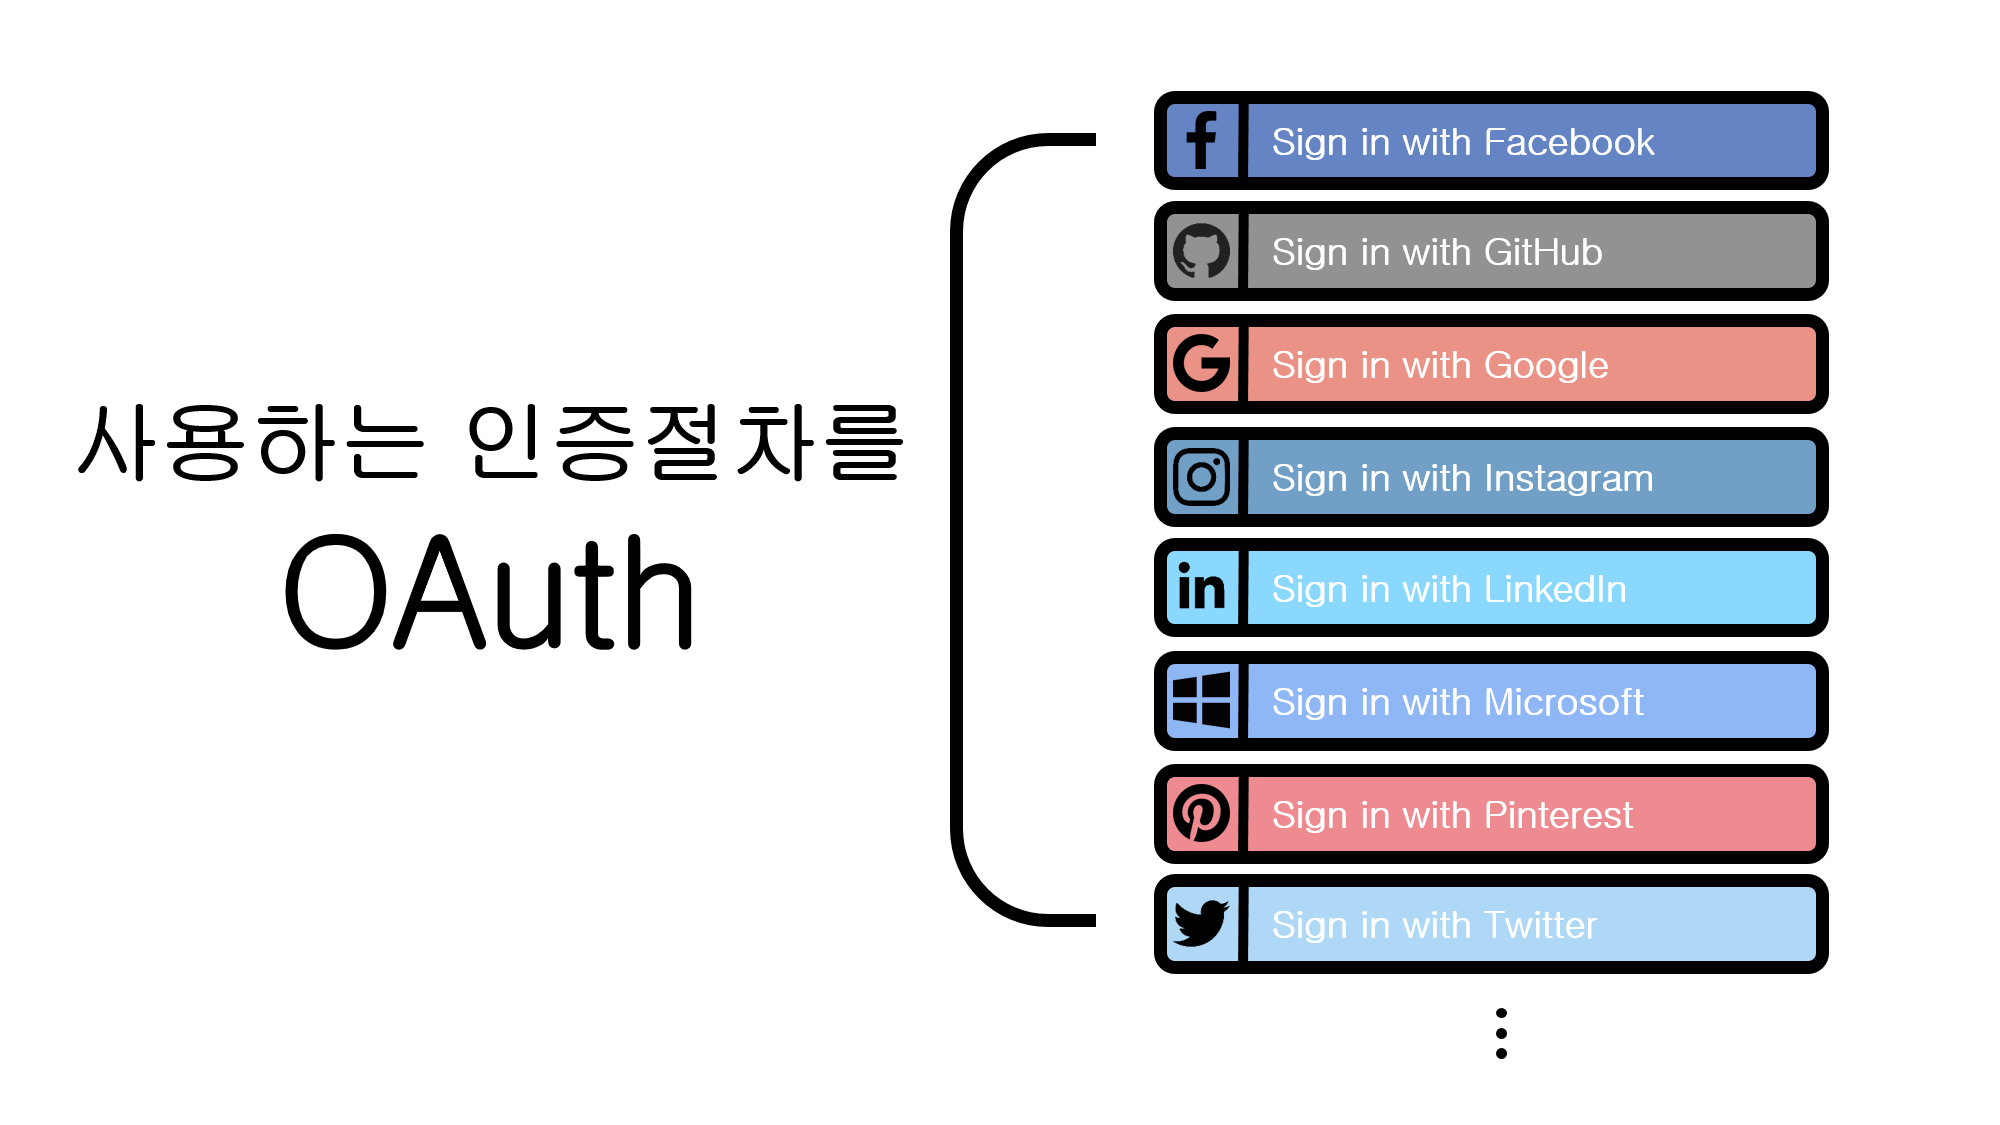
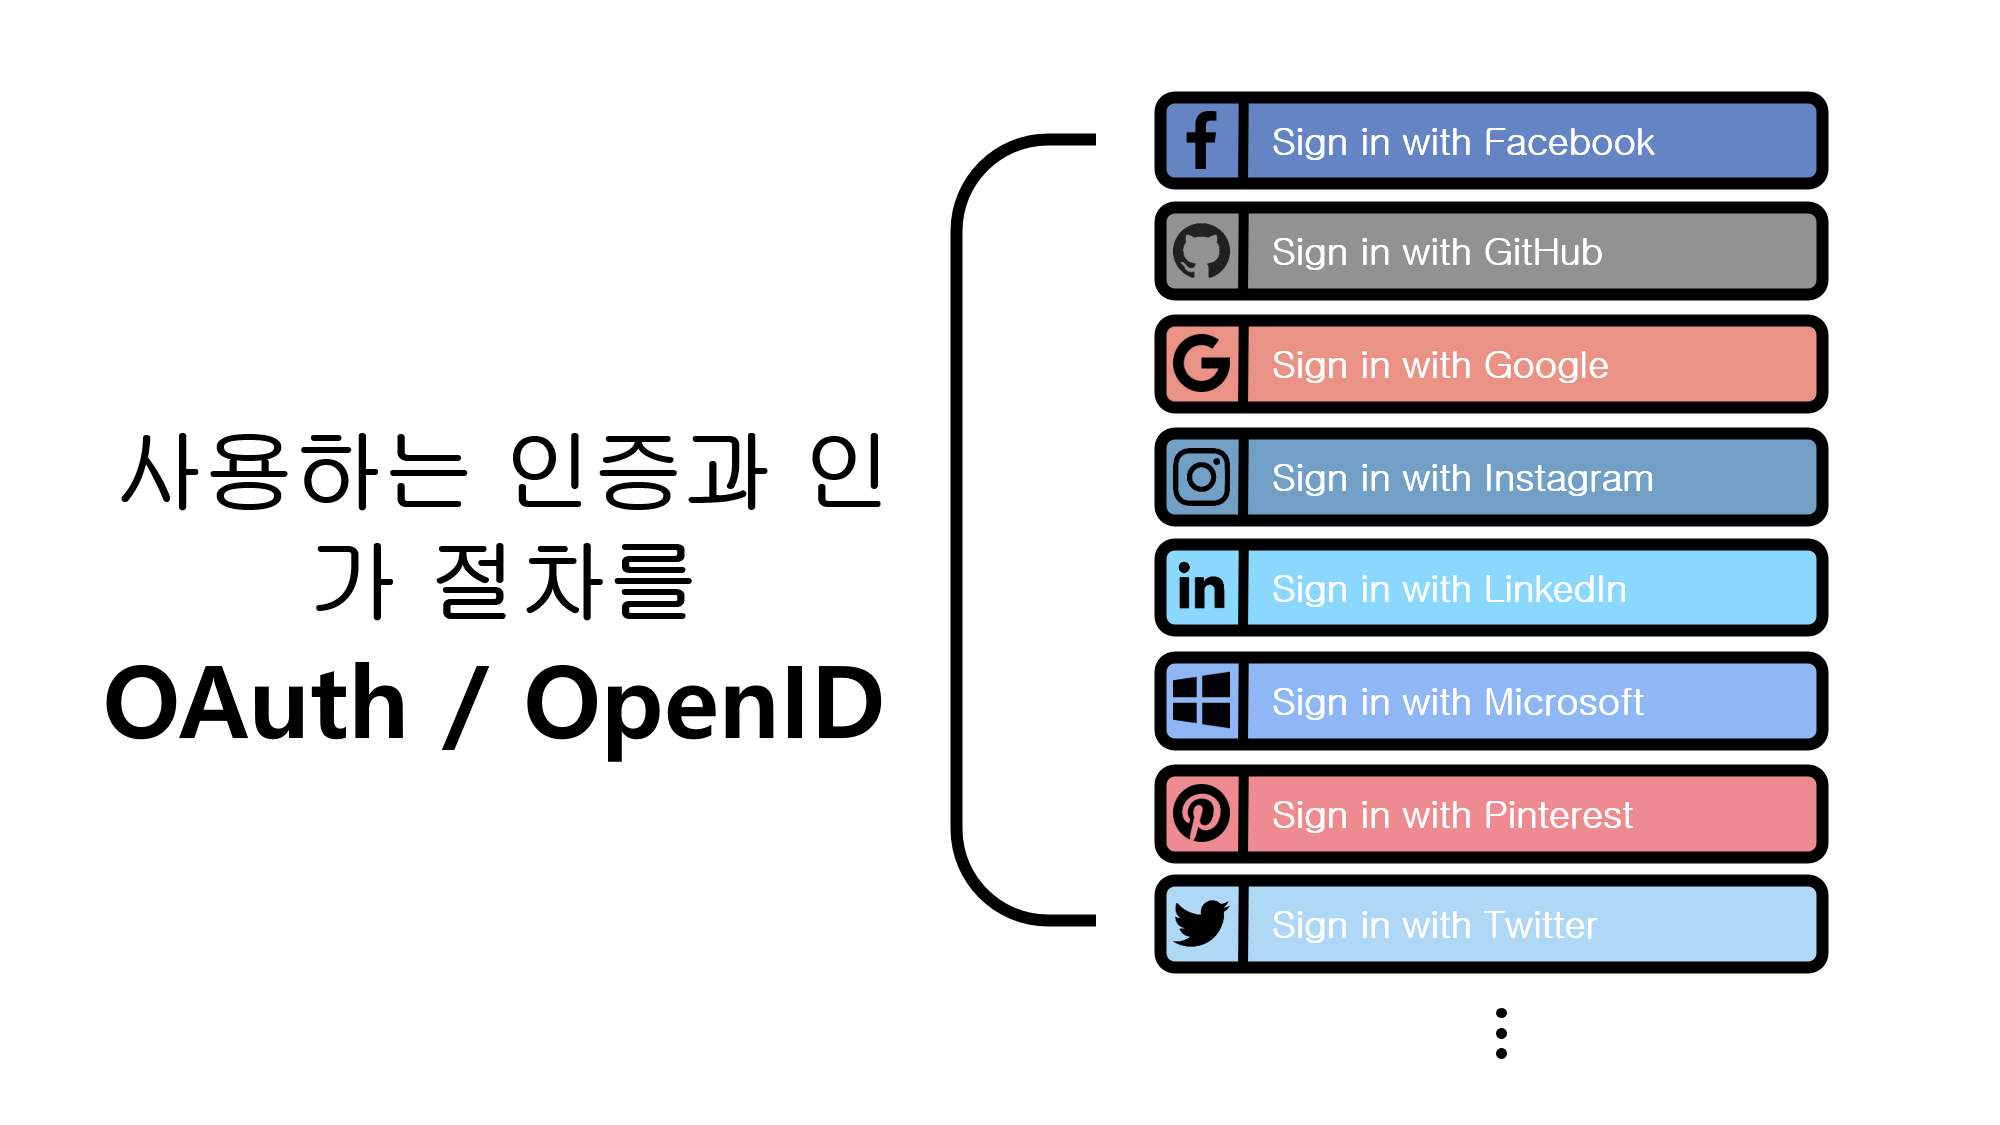
add 2023-01-26 oauth post

Changed region(s): [[0.031, 0.3422, 0.465, 0.6844]]

diff --git a/_posts/development/server/2023-01-26-oauth.md b/_posts/development/server/2023-01-26-oauth.md
@@ -1,11 +1,11 @@
 ---
 layout: post
-title: "[Security] OAuth와 OpenID"
+title: "[Security] OAuth"
 subtitle: "OAuth"
 category: development
-tags: server OAuth
+tags: server Security OAuth 개념 
 image:
-  path: /assets/img/development/server/2023-01-26/oauth_openid.png
+  path: /assets/img/development/server/2023-01-26/oauth.png
 ---
 
 > “해당 포스팅은 **우아한Tech**의 [**[10분 테코톡] 토닉, 후디의 인증과 인가 - 부족사회부터 소셜로그인까지**](https://www.youtube.com/watch?v=BotXDfBPvDA)을 참고하여 포스팅하였습니다. 영상을 제작해주신 **우아한Tech**와 **토닉, 후디**님에게 감사드립니다.”
@@ -21,16 +21,73 @@ image:
 > “다른 웹사이트 상의 자신들의 정보에 대해 <span style="color:#ff8080">**접근 권한을 부여**</span>할 수 있는 **공통적인 수단**이자 **개방형 표준**”
 
 ## 소셜 로그인의 등장
-
 ![social_login_buttons](/assets/img/development/server/2023-01-26/social_login_buttons.png){:.centered width="90%"}
-> “구글, 페이스북, 깃헙 등의 로그인을 사용하는 **인증절차**를 <span style="color:#ff8080">**`OAuth`**</span>라 한다.”
+> “구글, 페이스북, 깃헙 등의 로그인을 사용하는 **인증 및 인가 절차**를 <span style="color:#ff8080">**`OAuth와 OpenID`**</span>라 한다.”
 
 ### 우리는 어떻게 소셜 로그인을 사용한 로그인을 할 수 있을까?
-
 ![what_is_oauth_openid](/assets/img/development/server/2023-01-26/what_is_oauth_openid.png){:.centered width="90%"}
 > “**OAuth**는 <span style="color:#ff8080">**`인가`**</span>에 대한 기술이고, **OpenID**는 <span style="color:#ff8080">**`인증`**</span>에 대한 기술이다.”
 
+- 여기서 근간 기술인 **OAuth**와 **OpenID** 두 가지 기술이 존재 한다.
 
 ### OAuth2.0 이전
+![service](/assets/img/development/server/2023-01-26/service.png){:.centered width="90%"}
 
-![what_is_oauth_openid](/assets/img/development/server/2023-01-26/what_is_oauth_openid.png){:.centered width="90%"}
+#### 발단
+- 디스이즈우닷컴은 서비스를 제공하기 위해서 사용자의 구글 주소록이 필요해서 사용자의 ID/PW를 직접 제공받기로 한다.
+
+![problem](/assets/img/development/server/2023-01-26/problem.png){:.centered width="90%"}
+#### 전개
+1. 사용자가 디스이즈우닷컴에 <span style="color:#ff8080">**`구글 ID/PW를 제공`**</span>해 주면
+2. 그 정보로 디스이즈우닷컴에 구글에 <span style="color:#ff8080">**`로그인`**</span>하게 된다
+3. 구글은 디스이즈우닷컴에게 사용자의 <span style="color:#ff8080">**`주소록을 제공`**</span>해 준다
+4. 디스이즈우닷컴은 사용자에게 <span style="color:#ff8080">**`서비스를 제공`**</span>해 준다
+
+#### 문제 발생
+* <span style="color:#ff8080">**`하지만`**</span>, 여기에는 굉장히 많은 문제점이 발생하게 된다 
+* **사용자**
+1. 디스이즈우닷컴이 해킹돼서 내 계정이 <span style="color:#ff8080">**`탈취`**</span>되면?
+2. 에초에 디스이즈우닷컴이 <span style="color:#ff8080">**`악의적인`**</span> 웹사이트 면?
+* **디스이즈우닷컴**
+1. 사용자의 민감한 개인 정보를 <span style="color:#ff8080">**`가지고`**</span> 있어도 되나?
+* **구글**
+1. 회원 정보를 믿을 수 없는 제3자에게 <span style="color:#ff8080">**`가지고`**</span> 되나?
+
+![it_company_oauth](/assets/img/development/server/2023-01-26/it_company_oauth.png){:.centered width="90%"}
+
+#### OAuth의 표준화
+- **따라서**, **OAuth**의 **표준화**가 **시작**된다
+![explan_oauth](/assets/img/development/server/2023-01-26/explan_oauth.png){:.centered width="90%"}
+
+#### OAuth의 버전
+![oauth_version](/assets/img/development/server/2023-01-26/oauth_version.png){:.centered width="90%"}
+> “해당 포스트에서는 **OAth2.0** 기준으로 포스팅 하겠다”
+
+#### OAuth의 주체
+![name](/assets/img/development/server/2023-01-26/name.png){:.centered width="90%"}
+
+#### OAuth의 detail 주체
+![detail_name](/assets/img/development/server/2023-01-26/detail_name.png){:.centered width="90%"}
+
+#### OAuth의 동작과정
+![oauth_diagram](/assets/img/development/server/2023-01-26/oauth_diagram.png){:.centered width="90%"}
+> “OAuth2.0의 동작과정을 간단한 시퀀스 다이어그램”
+
+1. **Resource Owner**는 **Client**에게 <span style="color:#ff8080">**`로그인 요청`**</span>하게 된다
+2. **Client**는 **Authorization Server**에 <span style="color:#ff8080">**`OAuth 인증 요청`**</span>하게 되는데, 이때 <span style="color:#ff8080">**`Scope`**</span>도 같이 **요청**하게 된다
+3. **Authorization Server**는 **Resource Owner**에게 <span style="color:#ff8080">**`로그인 페이지 제공`**</span>
+4. **Resource Owner**는 해당 페이지에서 <span style="color:#ff8080">**`로그인`**</span>하게 된다
+5. **Authorization Server**는 **Resource Owner**에게 <span style="color:#ff8080">**`Authorization Code`**</span>라는 **임시 코드**를 발급해 준다
+6. 그 즉시 **Resource Owner**는 **Redirect URI**로 리디렉션 되는데, 이때 <span style="color:#ff8080">**`Authorization Code`**</span>를 함께 가지고 **리디렉션** 된다.
+7. **Client**는 방금 받은 **Authorization Code**를 통해 <span style="color:#ff8080">**`Access Token`**</span>을 **발급 요청**하게 된다
+8. **Authorization Server**는 <span style="color:#ff8080">**`Access Token`**</span>을 **발급**해 준다
+  - **Client**는 해당 **Access Token**을 자체 서비스에 **저장 및 관리**한다
+9. **Client**는 **Resource Owner**에게 <span style="color:#ff8080">**`로그인 성공`**</span>을 알려준다
+10. 시간이 흐르고 **Resource Owner**가 **Client**에게 <span style="color:#ff8080">**`서비스 요청`**</span>
+11. 이때 **Client**는 **Access Server**에 <span style="color:#ff8080">**`저장된 Access Token`**</span>으로 **리소스 요청**
+12. **Access Server**에서 **Access Token**이 <span style="color:#ff8080">**`검증`**</span>되면 **Client**에게 **리소스 제공**
+13. 그리고 **Client**는 **Resource Owner**에게 <span style="color:#ff8080">**`서비스 제공`**</span>
+
+Continue with [[Security] OpenID](2023-01-26-oauth.md){:.heading.flip-title}
+{:.read-more}
+
